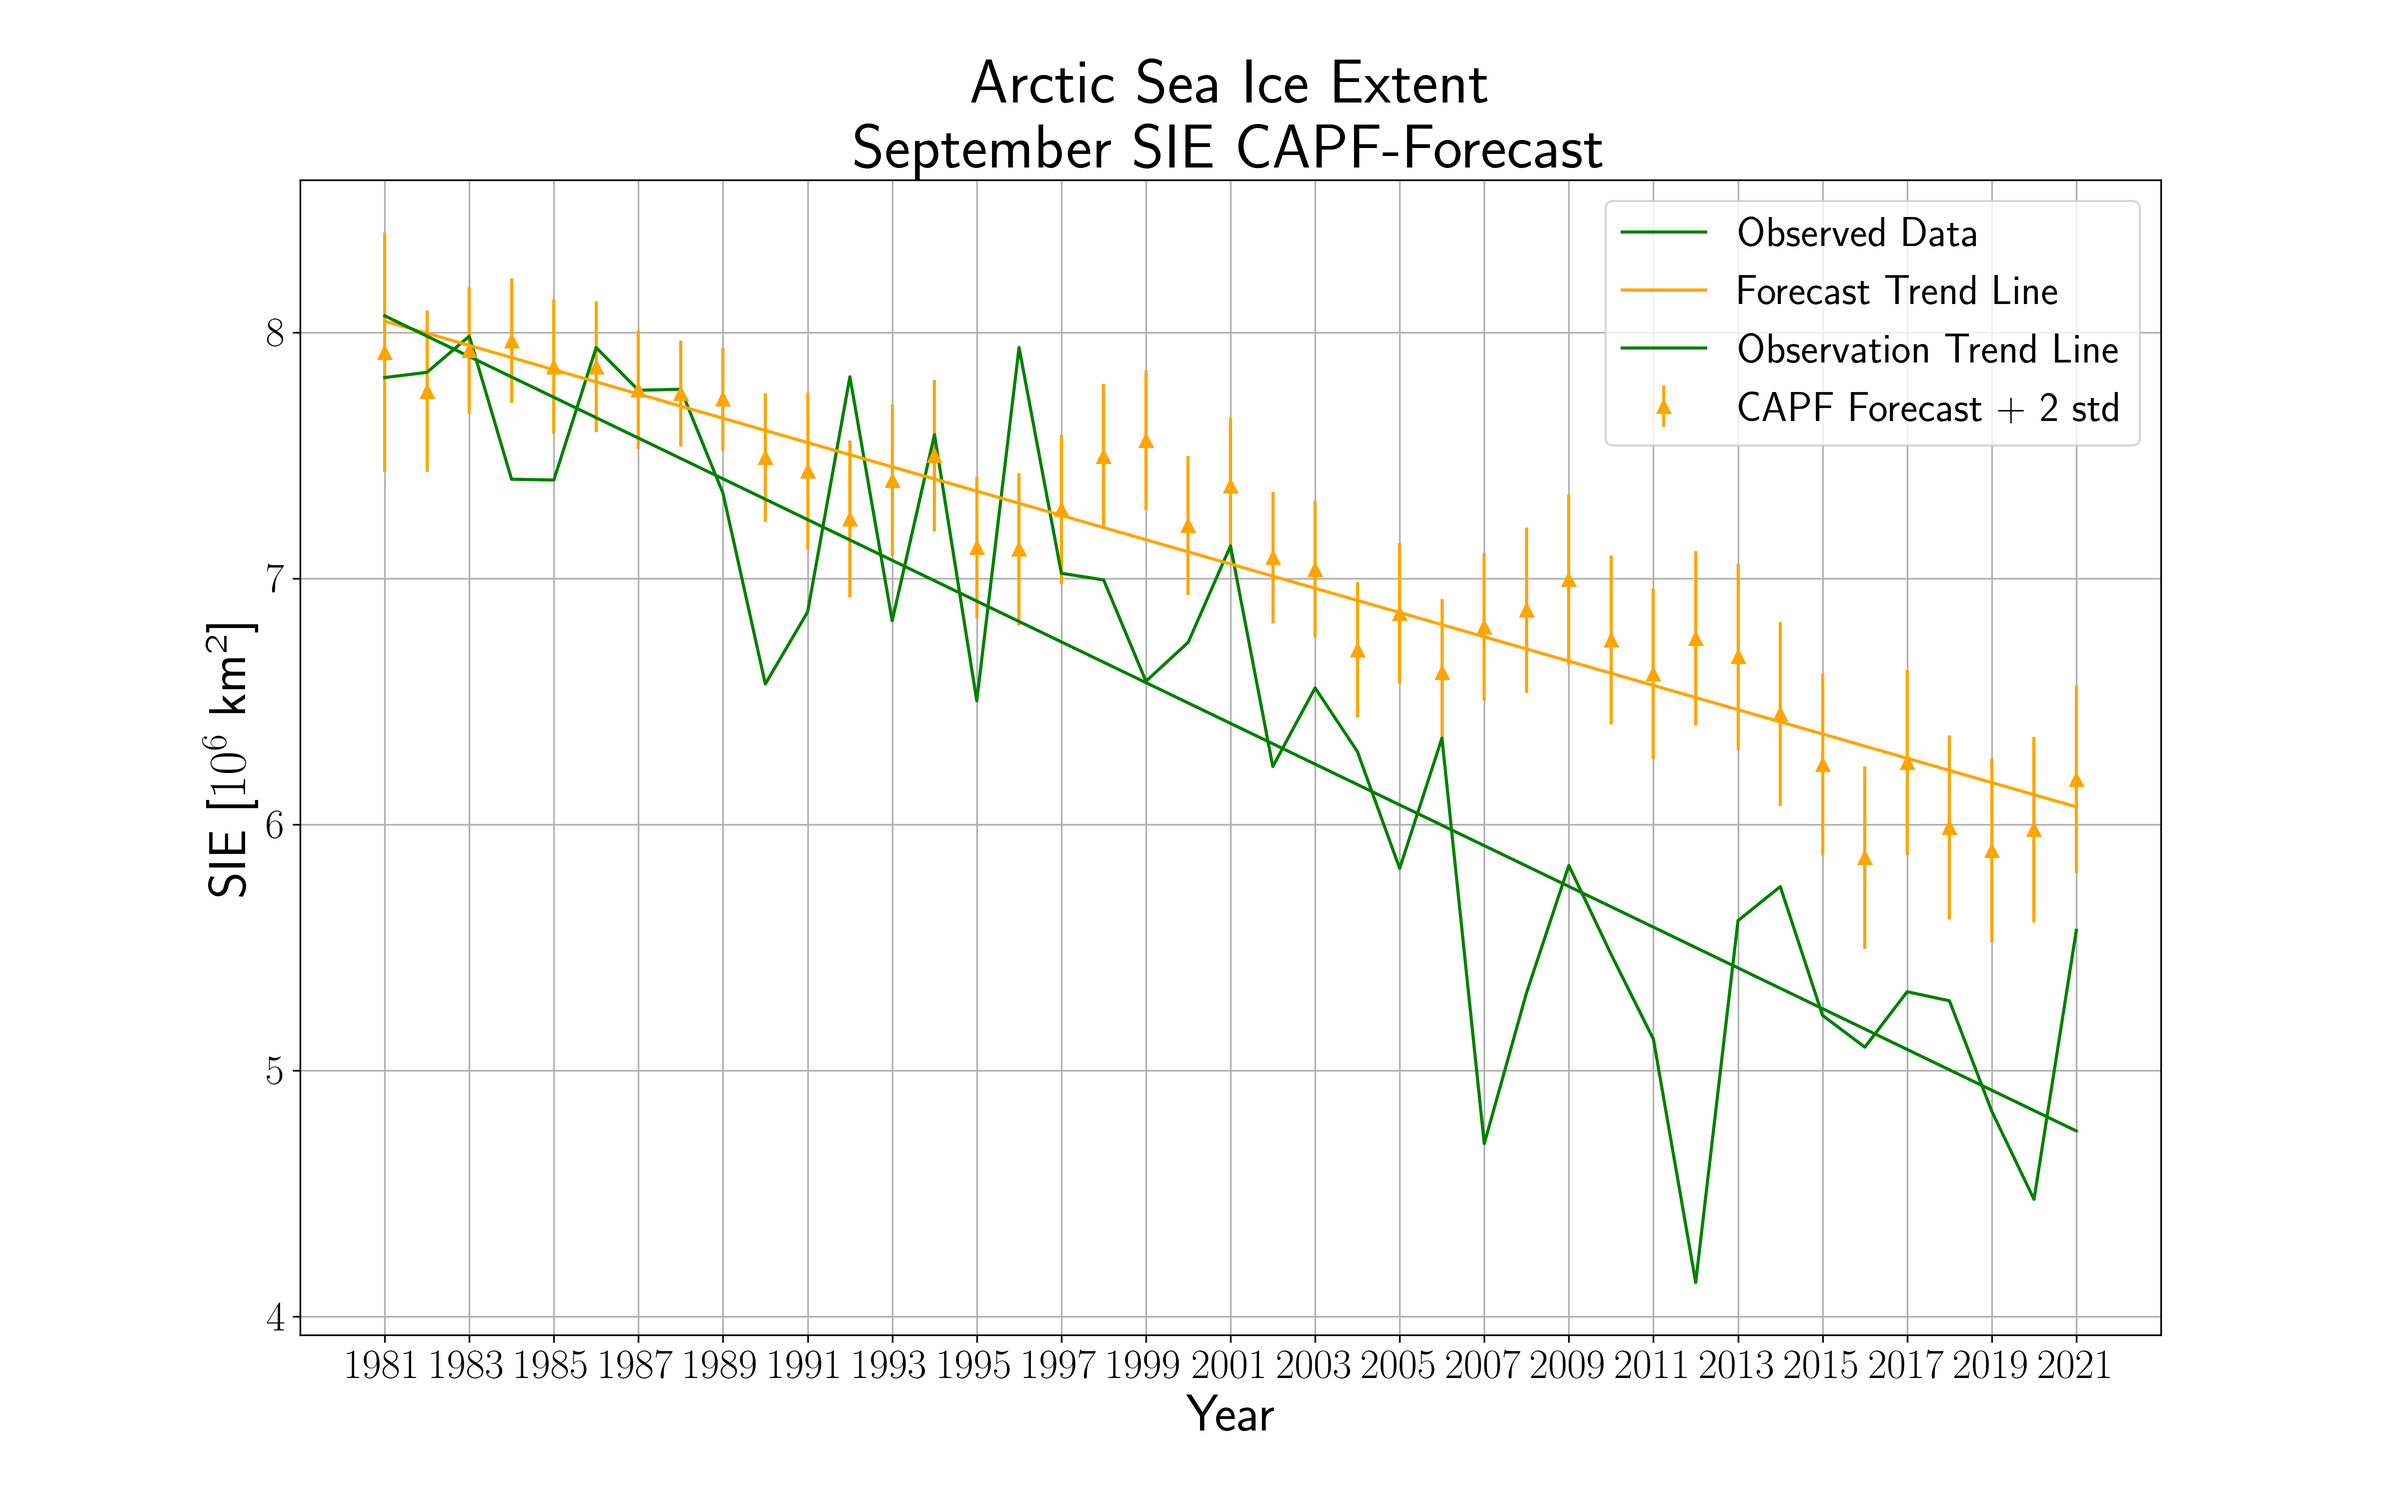
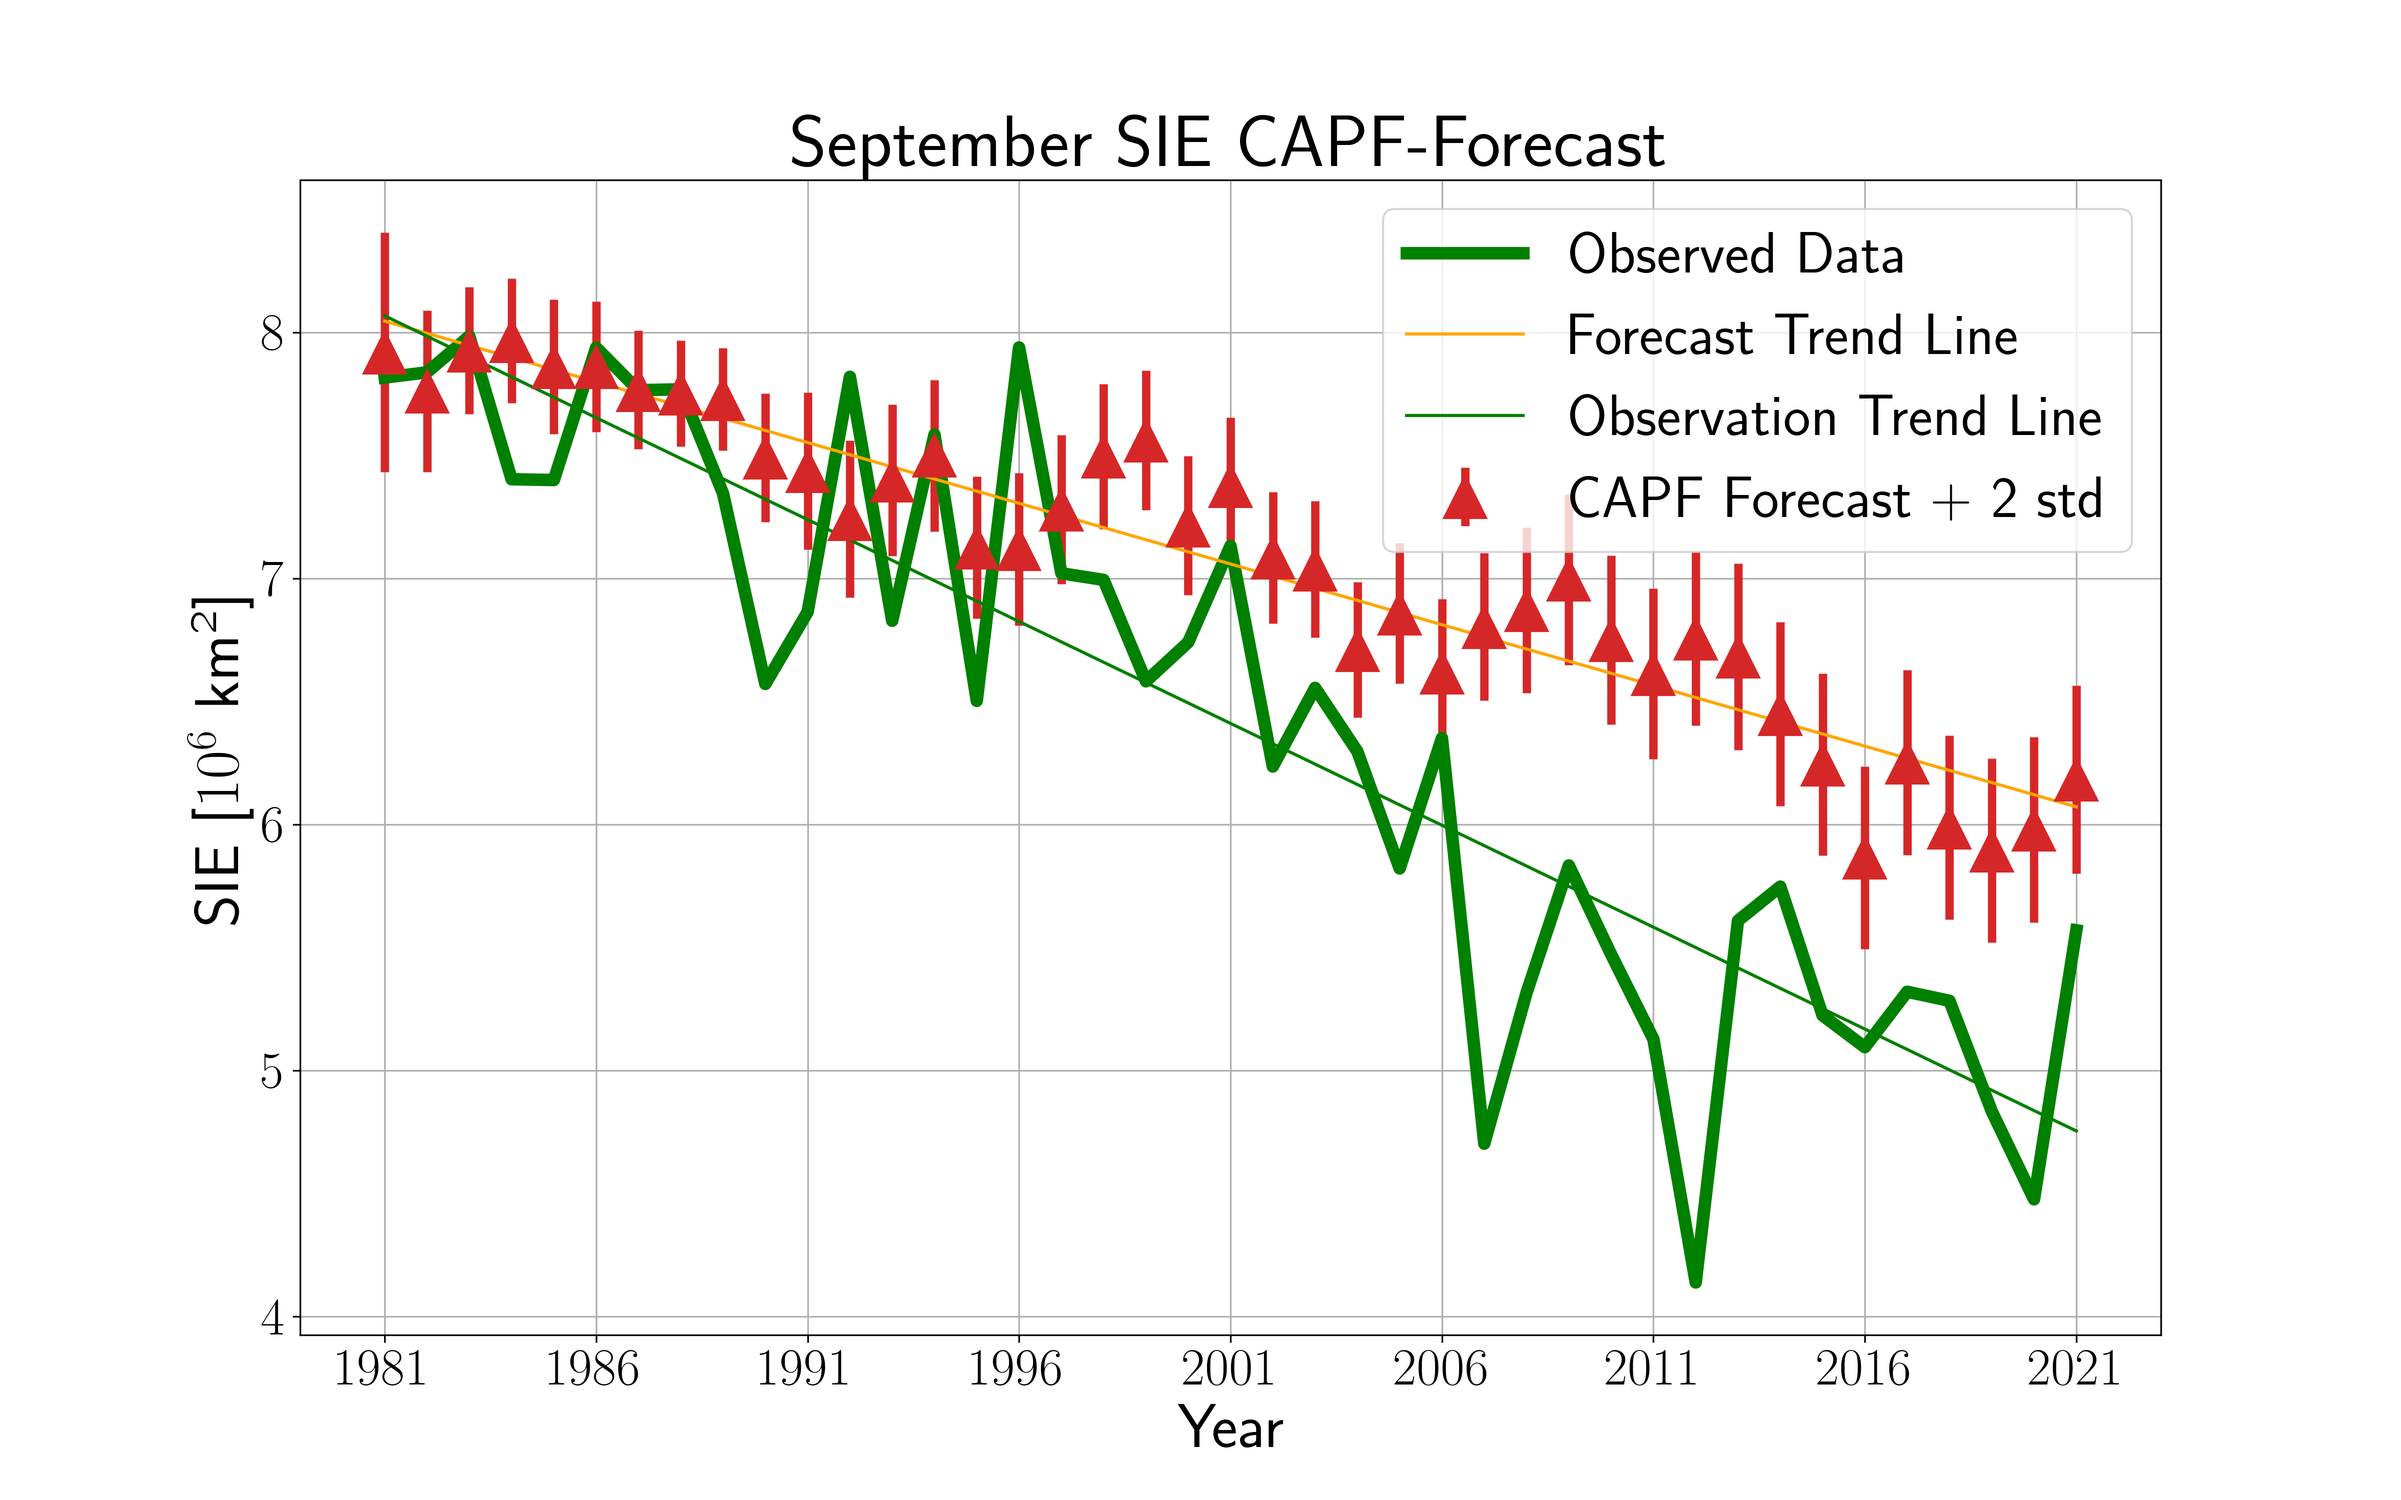
Cleaning fig data_plot1()

diff --git a/sea_ice_extent.py b/sea_ice_extent.py
@@ -34,7 +34,7 @@ figure = plt.figure(figsize=(16, 10))
 ### Data parameters ###
 data_dir = "/home/amaury/Bureau/LPHYS2268 - Forecast prediction and projection in Climate Science/Projet Perso/Data/osisaf_nh_sie_monthly.nc"
 save_dir = "/home/amaury/Bureau/LPHYS2268 - Forecast prediction and projection in Climate Science/Projet Perso/Figures/"
-transp = False  # Used for saving figures
+transp = True  # Used for saving figures
 # plt.style.use("dark_background")
 ##################################################### Data Plotting #########################################################
 # Correspond to question 3 of the report
@@ -414,9 +414,13 @@ def plot_forecast1(forecast, year_f_forecast, trend_line_opt, method):
         linestyle="None",
         marker="^",
         label=method + " Forecast + 2 std",
-        color="orange",
+        color="tab:red",
+        markersize="20",
+        elinewidth=4,
     )
-    plt.plot(forecast[4], forecast[3][2:], label="Observed Data", color="g")
+    plt.plot(
+        forecast[4], forecast[3][2:], label="Observed Data", color="g", linewidth=6
+    )
 
     if trend_line_opt == True:
         ## Trend line of the Forecast ##
@@ -441,13 +445,13 @@ def plot_forecast1(forecast, year_f_forecast, trend_line_opt, method):
         )
     else:
         mod_save_dir = ""
-    plt.title("Arctic Sea Ice Extent\nSeptember SIE " + method + "-Forecast ", size=30)
-    plt.xlabel("Year", size=25)
-    plt.xticks(np.arange(year_0 + 2, year_f_forecast, 2))
-    plt.ylabel(r"SIE [$10^6$ km²]", size=25)
-    plt.tick_params(axis="both", labelsize=20)
+    plt.title("September SIE " + method + "-Forecast ", size=35)
+    plt.xlabel("Year", size=30)
+    plt.xticks(np.arange(year_0 + 2, year_f_forecast, 5))
+    plt.ylabel(r"SIE [$10^6$ km²]", size=30)
+    plt.tick_params(axis="both", labelsize=25)
     plt.grid()
-    plt.legend(fontsize=20)
+    plt.legend(fontsize=28)
     plt.savefig(
         save_dir + "Sept_SIE_Forecast/SIE_Sept_" + method + "_Forecast" + mod_save_dir,
         dpi=300,
@@ -1149,6 +1153,7 @@ if __name__ == "__main__":
     plot_forecast1(
         forecast=apf_forecast, year_f_forecast=2022, trend_line_opt=False, method="APF"
     )
+
     ##### CAPF Forecasting system #####
     capf_forecast = CAPF(year_f_forecast=year_f_forecast)
     ### Display ###
@@ -1161,6 +1166,7 @@ if __name__ == "__main__":
         trend_line_opt=False,
         method="CAPF",
     )
+
     ## Comparaison ##
     plot_forecast2(
         apf_forecast,
@@ -1475,5 +1481,6 @@ if __name__ == "__main__":
     print(
         "----------------------------------------------------------------------------------------------------------------------------------"
     )
+
     ##########################################################################################################
     ##### Forecast for 2023 #####
